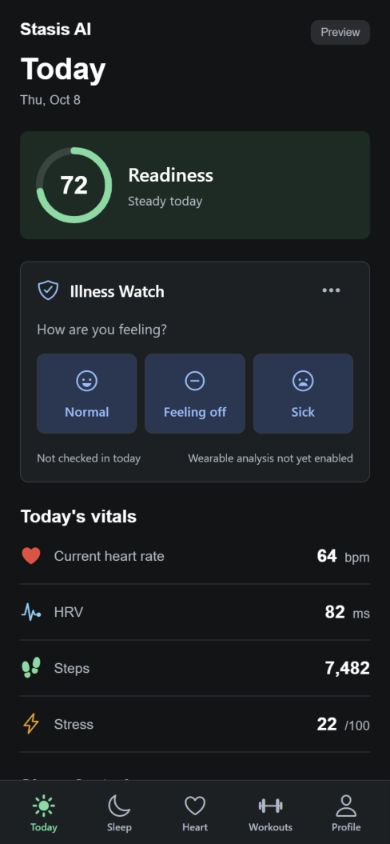
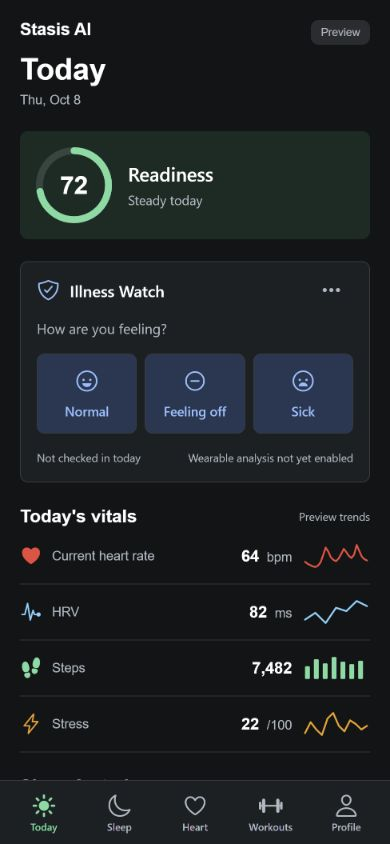
Restore preview sparklines beside Today vitals

diff --git a/apps/stasis-expo/src/components/ui.tsx b/apps/stasis-expo/src/components/ui.tsx
@@ -5,6 +5,7 @@ import { Platform, Pressable, StyleSheet, Text, View, type ColorValue, type Pres
 import Animated, { useAnimatedStyle, useSharedValue, withSpring } from 'react-native-reanimated';
 import Svg, { Circle } from 'react-native-svg';
 import { colors, radius, spacing, typeface, typography } from '@/design/tokens';
+import { Sparkline } from '@/components/sparkline';
 
 const SpringPressable = Animated.createAnimatedComponent(Pressable);
 
@@ -86,12 +87,13 @@ export function MetricCard({ label, value, unit, accent = colors.blue, icon }: {
   );
 }
 
-export function MetricRow({ label, value, unit, icon, accent = colors.blue }: { label: string; value: string; unit?: string; icon: keyof typeof Ionicons.glyphMap; accent?: ColorValue }) {
+export function MetricRow({ label, value, unit, icon, accent = colors.blue, trend }: { label: string; value: string; unit?: string; icon: keyof typeof Ionicons.glyphMap; accent?: ColorValue; trend?: { values: readonly number[]; period: string; kind?: 'line' | 'bars' } }) {
   return (
     <View style={styles.metricRow}>
       <Ionicons color={accent} name={icon} size={22} />
       <Text style={styles.rowLabel}>{label}</Text>
       <Text style={styles.rowValue}>{value}{unit ? <Text style={styles.metricUnit}> {unit}</Text> : null}</Text>
+      {trend ? <Sparkline values={trend.values} color={accent} kind={trend.kind} label={`${label} preview trend: ${trend.period}`} /> : null}
     </View>
   );
 }
@@ -141,9 +143,9 @@ const styles = StyleSheet.create({
   metricValueRow: { alignItems: 'baseline', flexDirection: 'row', flexWrap: 'wrap', marginTop: 10 },
   metricValue: { color: colors.text, fontSize: 24, fontWeight: '600', letterSpacing: 0, ...typeface },
   metricUnit: { color: colors.textMuted, fontSize: 13, fontWeight: '400', marginLeft: 4, ...typeface },
-  metricRow: { alignItems: 'center', borderBottomColor: colors.border, borderBottomWidth: StyleSheet.hairlineWidth, flexDirection: 'row', gap: 12, minHeight: 56, paddingVertical: 12 },
-  rowLabel: { color: colors.textMuted, flex: 1, fontSize: 14, ...typeface },
-  rowValue: { color: colors.text, fontSize: 18, fontWeight: '600', ...typeface },
+  metricRow: { alignItems: 'center', borderBottomColor: colors.border, borderBottomWidth: StyleSheet.hairlineWidth, flexDirection: 'row', gap: 10, minHeight: 56, paddingVertical: 12 },
+  rowLabel: { color: colors.textMuted, flex: 1, minWidth: 0, fontSize: 13, ...typeface },
+  rowValue: { color: colors.text, flexShrink: 0, fontSize: 16, fontWeight: '600', ...typeface },
   ringWrap: { alignItems: 'center', justifyContent: 'center' },
   ringValue: { color: colors.text, fontSize: 40, fontWeight: '700', ...typeface },
   compactRingValue: { fontSize: 25 },

diff --git a/apps/stasis-expo/src/app/(tabs)/today.tsx b/apps/stasis-expo/src/app/(tabs)/today.tsx
@@ -5,7 +5,7 @@ import { StyleSheet, Text, View } from 'react-native';
 import { FeelingChoices } from '@/components/feeling-choices';
 import { Screen } from '@/components/screen';
 import { MetricCard, MetricRow, PreviewBadge, ReadinessRing, ScreenTitle, SectionTitle, TactilePressable, Tile } from '@/components/ui';
-import { currentHeartRate, previewSnapshot } from '@/data/preview-data';
+import { currentHeartRate, heartRate24Hour, hrvTrend, previewSnapshot, previewStepsTrend, previewStressTrend } from '@/data/preview-data';
 import { localDayId, type SymptomCheckin } from '@/data/symptom-model';
 import { getSymptomCheckin } from '@/data/symptom-repository';
 import { colors, radius, spacing } from '@/design/tokens';
@@ -46,11 +46,11 @@ export default function TodayScreen() {
       </Tile>
 
       <View>
-        <SectionTitle>Today's vitals</SectionTitle>
-        <MetricRow accent={colors.coral} icon="heart" label="Current heart rate" value={String(currentHeartRate ?? '\u2014')} unit="bpm" />
-        <MetricRow accent={colors.cyan} icon="pulse" label="HRV" value={String(snapshot.hrv ?? '\u2014')} unit="ms" />
-        <MetricRow accent={colors.mint} icon="footsteps" label="Steps" value={snapshot.steps?.toLocaleString() ?? '\u2014'} />
-        <MetricRow accent={colors.amber} icon="flash-outline" label="Stress" value={String(snapshot.stress ?? '\u2014')} unit="/100" />
+        <SectionTitle action={<Text style={styles.meta}>Preview trends</Text>}>Today's vitals</SectionTitle>
+        <MetricRow accent={colors.coral} icon="heart" label="Current heart rate" value={String(currentHeartRate ?? '\u2014')} unit="bpm" trend={{ values: heartRate24Hour, period: 'last 24 hours' }} />
+        <MetricRow accent={colors.cyan} icon="pulse" label="HRV" value={String(snapshot.hrv ?? '\u2014')} unit="ms" trend={{ values: hrvTrend, period: 'last 7 days' }} />
+        <MetricRow accent={colors.mint} icon="footsteps" label="Steps" value={snapshot.steps?.toLocaleString() ?? '\u2014'} trend={{ values: previewStepsTrend, period: 'last 7 days', kind: 'bars' }} />
+        <MetricRow accent={colors.amber} icon="flash-outline" label="Stress" value={String(snapshot.stress ?? '\u2014')} unit="/100" trend={{ values: previewStressTrend, period: 'today' }} />
       </View>
 
       <View style={styles.summary}>

diff --git a/apps/stasis-expo/src/components/sparkline.tsx b/apps/stasis-expo/src/components/sparkline.tsx
@@ -1,0 +1,30 @@
+import { StyleSheet, View, type ColorValue } from 'react-native';
+import Svg, { Path, Rect } from 'react-native-svg';
+
+const width = 68;
+const height = 28;
+const inset = 3;
+
+export function Sparkline({ values, color, label, kind = 'line' }: { values: readonly number[]; color: ColorValue; label: string; kind?: 'line' | 'bars' }) {
+  if (values.length < 2 || values.some((value) => !Number.isFinite(value))) return null;
+  const min = Math.min(...values);
+  const max = Math.max(...values);
+  const range = max - min;
+  const y = (value: number) => range === 0 ? height / 2 : inset + (1 - (value - min) / range) * (height - inset * 2);
+  const path = values.map((value, index) => `${index === 0 ? 'M' : 'L'} ${inset + index / (values.length - 1) * (width - inset * 2)} ${y(value)}`).join(' ');
+  const slot = (width - inset * 2) / values.length;
+  return (
+    <View accessibilityRole="image" accessibilityLabel={label} style={styles.chart}>
+      <Svg width={width} height={height} viewBox={`0 0 ${width} ${height}`}>
+        {kind === 'bars'
+          ? values.map((value, index) => {
+            const barHeight = max > 0 ? Math.max(1, Math.max(0, value) / max * (height - inset * 2)) : 1;
+            return <Rect key={index} x={inset + index * slot} y={height - inset - barHeight} width={slot * 0.55} height={barHeight} fill={color} rx={1} />;
+          })
+          : <Path d={path} fill="none" stroke={color} strokeWidth={1.8} strokeLinecap="round" strokeLinejoin="round" />}
+      </Svg>
+    </View>
+  );
+}
+
+const styles = StyleSheet.create({ chart: { flexShrink: 0, height, width } });

diff --git a/apps/stasis-expo/src/data/preview-data.ts b/apps/stasis-expo/src/data/preview-data.ts
@@ -33,6 +33,10 @@ export const previewWorkouts: WorkoutSummary[] = [
 export const hrvTrend = [74, 78, 72, 81, 79, 85, 82];
 export const restingHeartRateTrend = [63, 61, 62, 60, 59, 60, 60];
 
+// Illustrative preview series only; never passed to persistence or analytics.
+export const previewStepsTrend = [5230, 8105, 6420, 9020, 7104, 6100, 7482];
+export const previewStressTrend = [18, 24, 20, 17, 26, 29, 22, 19, 25, 23, 20, 22];
+
 // One preview sample per hour, from midnight through the current midnight boundary.
 export const heartRate24Hour = [
   62, 59, 57, 55, 54, 56, 61, 72, 84, 78, 69, 65, 63,

diff --git a/apps/stasis-expo/UI_REVIEW.md b/apps/stasis-expo/UI_REVIEW.md
@@ -5,6 +5,11 @@ check-in, metric rows, flat surfaces, and a fixed tab bar. The same typography,
 spacing, surface treatment, and adaptive colors apply to Today, Sleep, Heart,
 Workouts, Profile, Illness Watch, Coach, and Coach server settings.
 
+Today's vitals include right-aligned sparklines: 24-hour heart rate, 7-day HRV,
+7-day steps (bars), and today's stress. All series are preview fixtures;
+"Preview trends" labels them visibly, and each chart has an accessible metric
+and period label. Steps and stress series are illustrative and never persisted.
+
 Today offers Normal, Feeling off, and Sick. Selecting one opens the editable
 check-in form with that choice selected. Nothing is persisted until Save;
 symptomatic reports still require severity. Existing reports remain editable.
